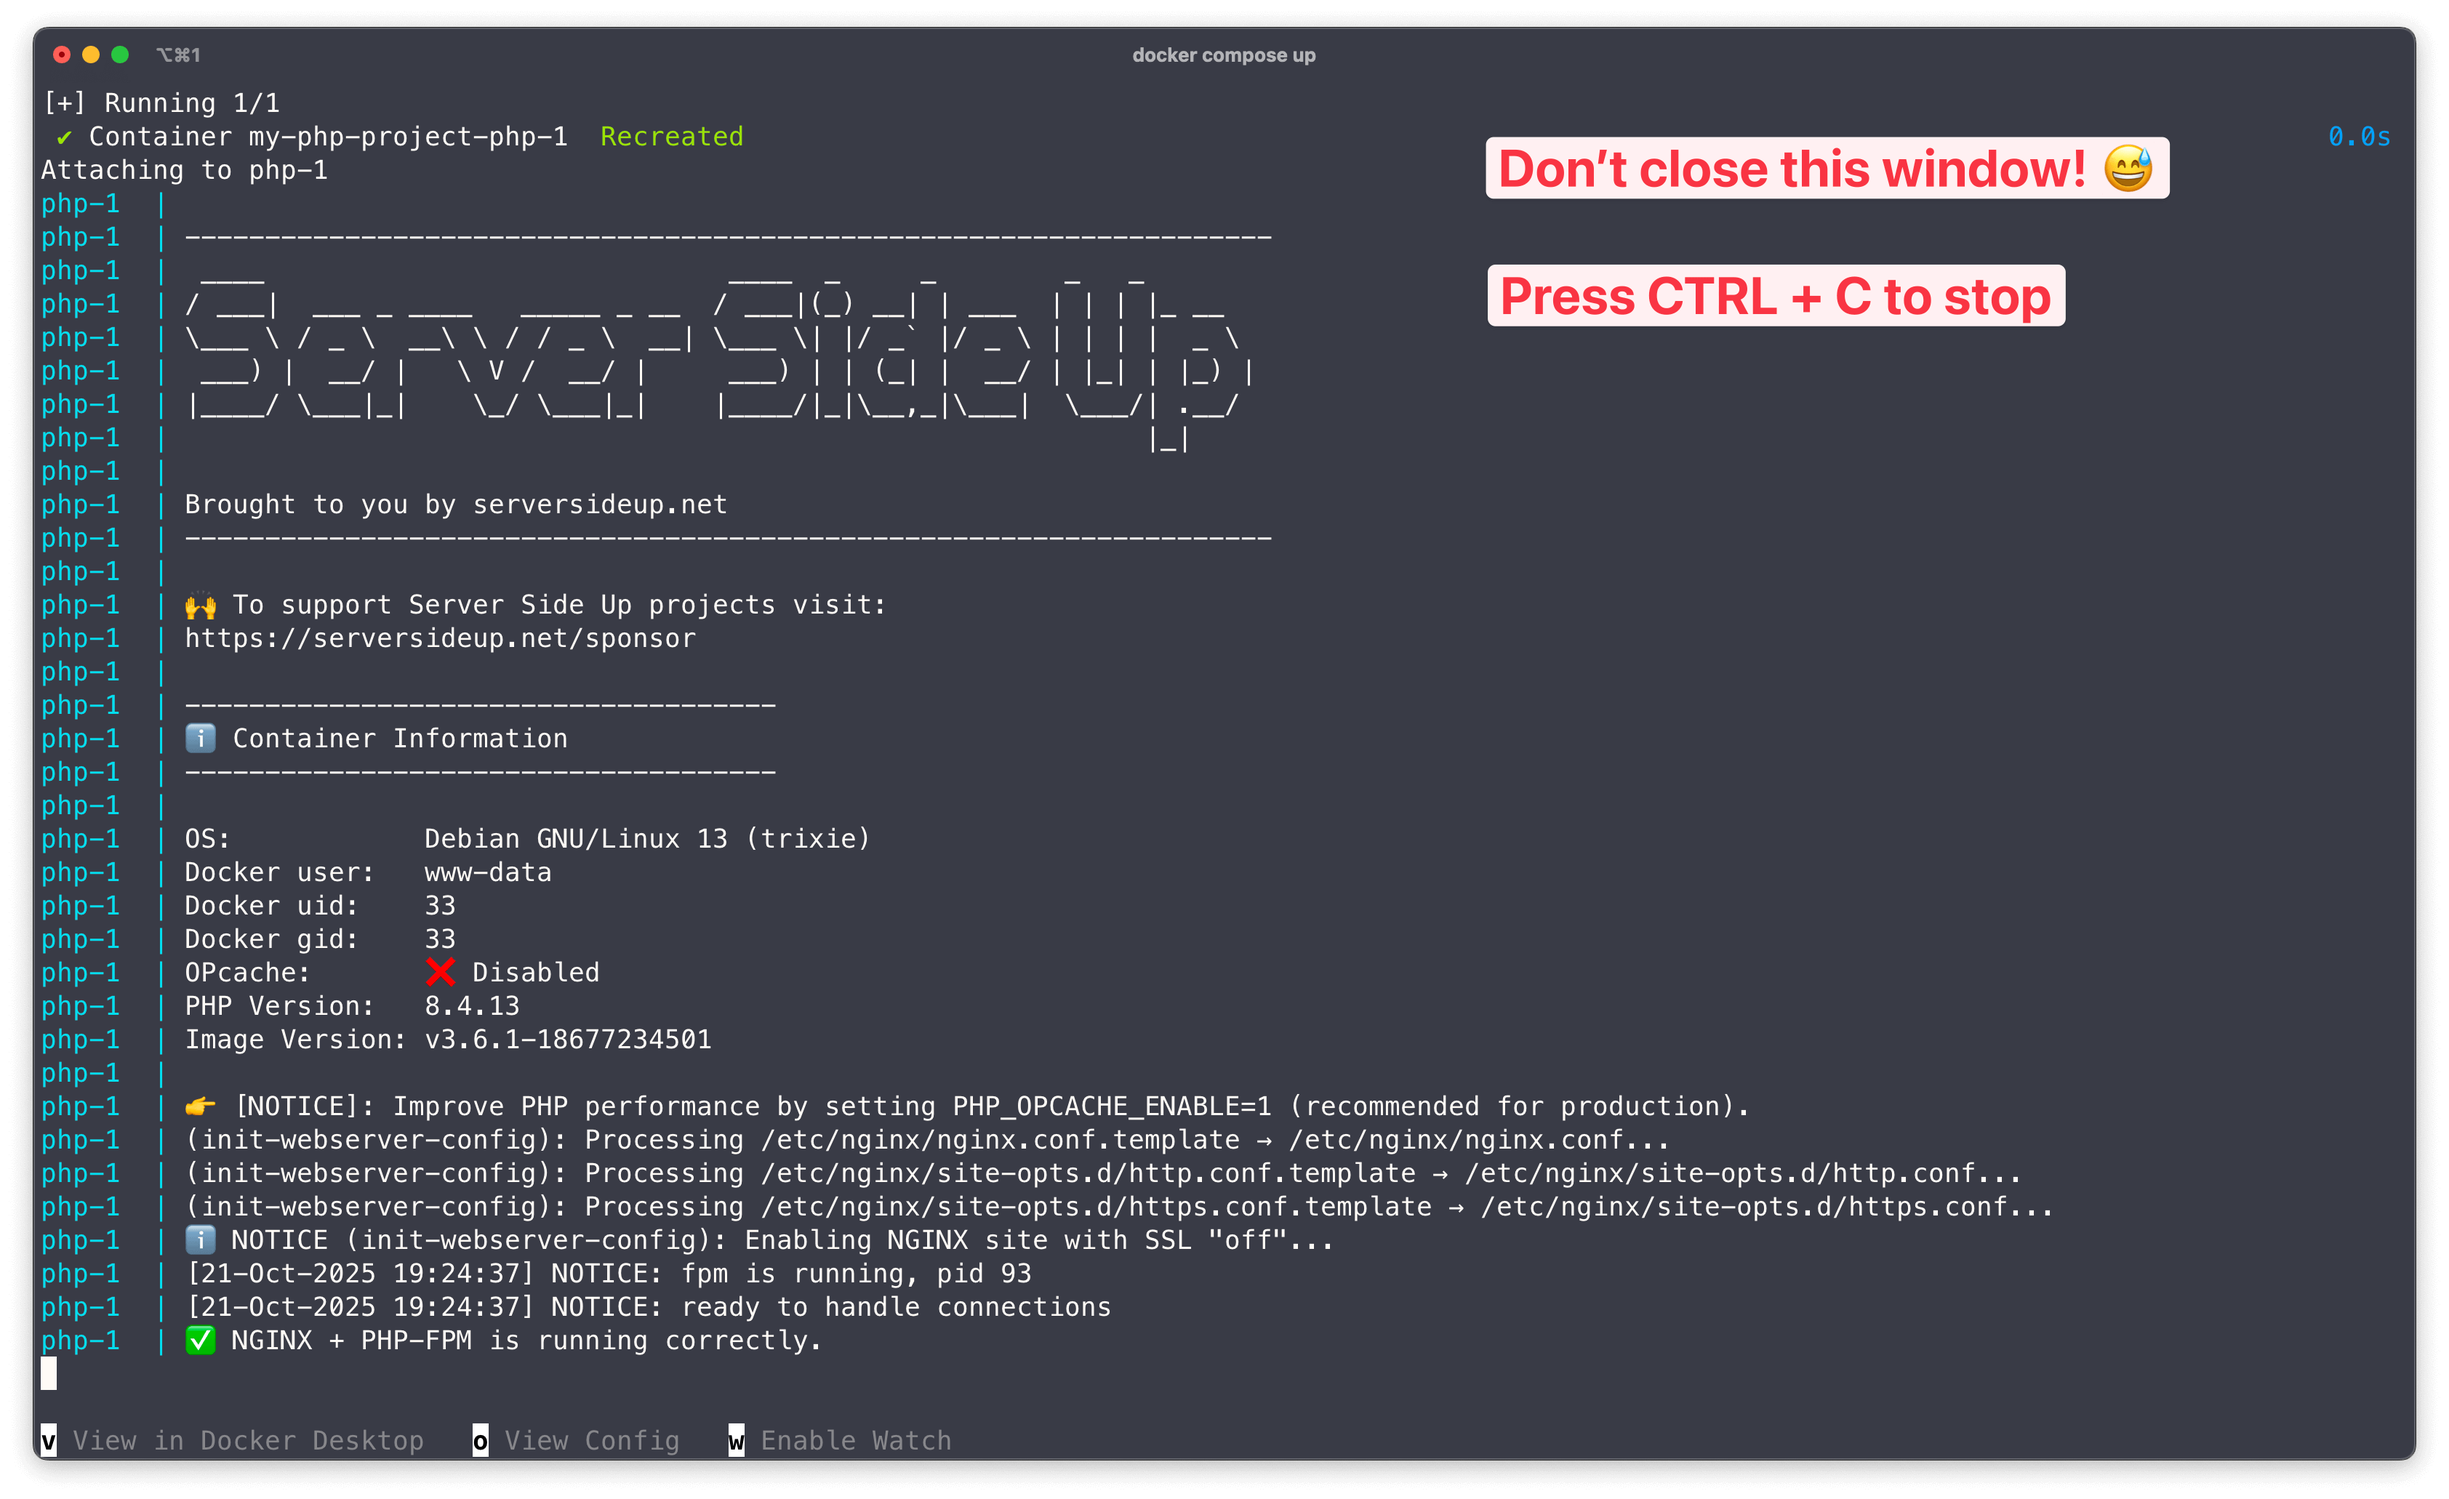
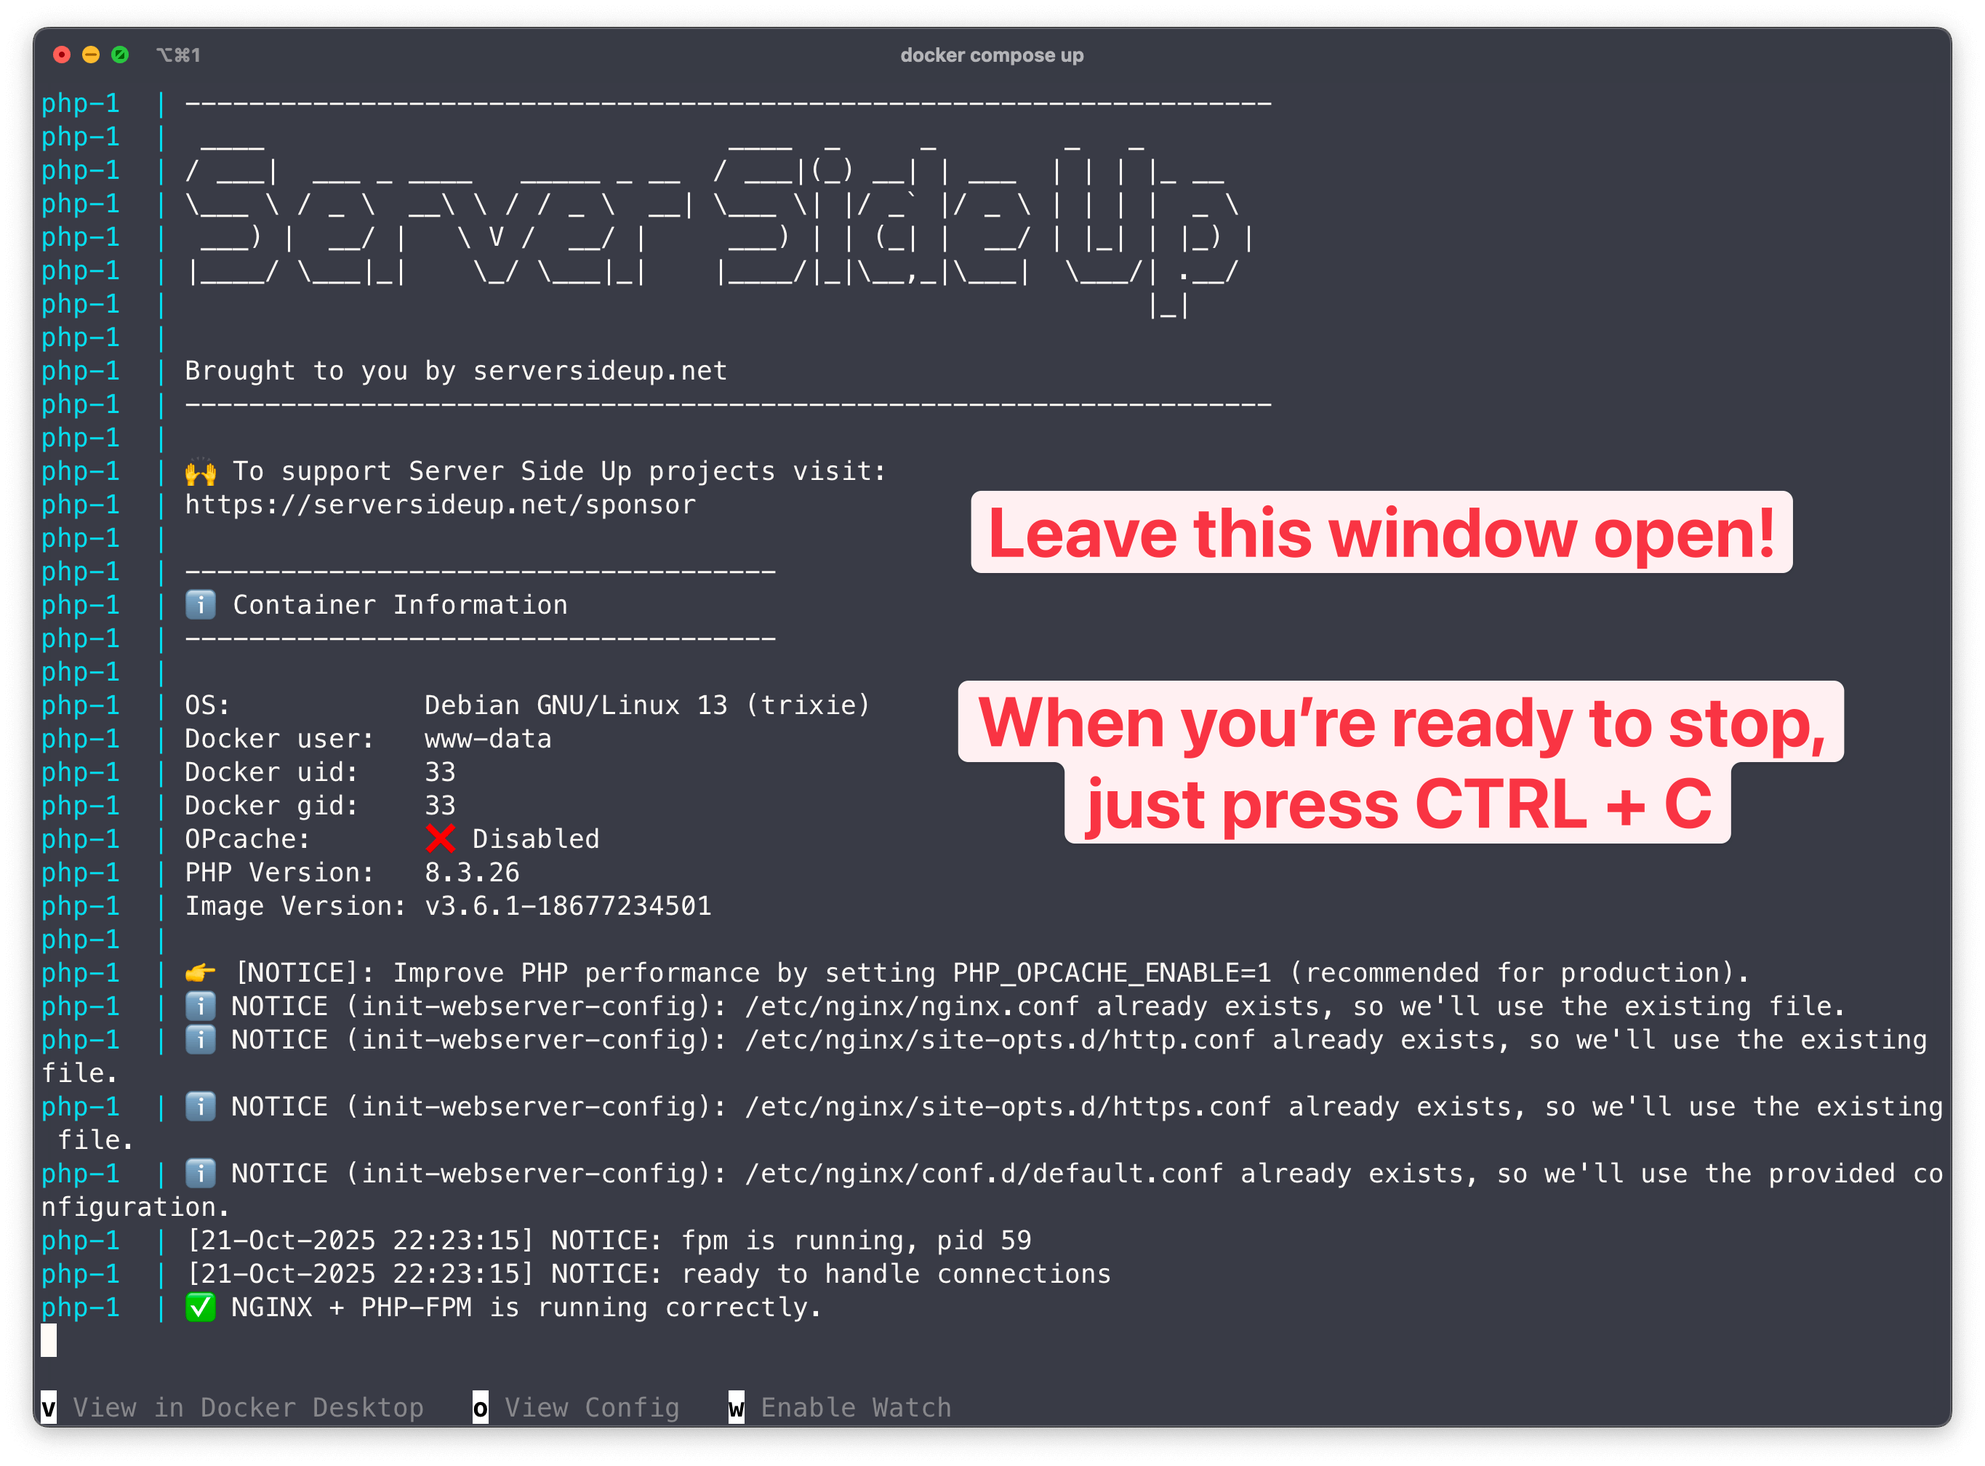
Update installation documentation for PHP Docker images: added 'Tag' definition, improved project setup instructions, and included new images showcasing PHP version changes and settings. Enhanced clarity on configuring PHP settings in Docker Compose.

diff --git a/docs/content/docs/1.getting-started/3.installation.md b/docs/content/docs/1.getting-started/3.installation.md
@@ -29,6 +29,7 @@ There are some important terms to understand when working with containers:
 |------|------------|
 | Container | A running instance of an image. |
 | Image | A template for a container to start with (like serversideup/php). |
+| Tag | A specific version of an image. |
 | Registry | A repository of images. This is where users can pull images from to start a container. This can be places like [Docker Hub](https://hub.docker.com/r/serversideup/php) or [GitHub Packages](https://github.com/serversideup/docker-php/pkgs/container/php). |
 
 If you'd like to learn more about containers, you can learn more following the guide below.
@@ -46,20 +47,17 @@ docker --version
 docker compose version
 ```
 
-If you see the version numbers, you're ready to go!
+If you see version numbers after running the commands, you're ready to go!
 
 ### Create a new sample project
-Let's create a new sample project to test our Docker setup.
+Let's create a new sample project to test our Docker setup. Open up your terminal and run the following commands:
 
 ```bash
-# Create a new directory for our project
-mkdir my-php-project
+# Create a project directory with a public directory
+mkdir -p my-php-project/public
 
 # Change directory to our project
 cd my-php-project
-
-# Create a public directory for our "public facing" files
-mkdir public
 ```
 
 Once we're in our project directory, we will want to create two files:
@@ -75,13 +73,17 @@ The content of these files should look like:
 services:
   php:
     # Choose our PHP version and variation
-    image: serversideup/php:8.4-fpm-nginx
+    image: serversideup/php:8.3-fpm-nginx
     # Expose localhost:80 to NGINX's port 8080
     ports:
       - 80:8080
     # Mount current directory to /var/www/html
     volumes:
       - ./:/var/www/html
+    # PHP settings that we can override
+    environment:
+      PHP_UPLOAD_MAX_FILE_SIZE: "250M"
+      PHP_OPCACHE_ENABLE: "0"
 ```
 
 ```php [public/index.php]
@@ -110,9 +112,18 @@ You'll see the logs appear in your terminal. **Keep your terminal open** as we'l
 ![Running PHP Container](images/docs/running-php-container.png)
 
 ### Viewing your PHP app
-To view your PHP app, open your browser and navigate to `http://localhost`. You should see the PHP info page:
+To view your PHP app, open your browser and navigate to `http://localhost`. You should see the PHP info page with `8.3` running `fpm-nginx`:
 
 ![PHP Info Page](images/docs/php-info.png)
+
+You can see the PHP version is in the upper left corner of the page. But what's also cool is you can see the settings we configured in the `compose.yml` file are being applied.
+
+Look for these values in the PHP info page:
+
+- `upload_max_filesize` - This should show `250M`
+- `opcache.enable` - This should show `Off`
+
+To make changes to these settings, we must bring the containers down first before making the changes.
 
 ### Stopping your application
 To stop the container, press :kbd{value="ctrl"} + :kbd{value="C"} on the original terminal window or you can run the following command from your project root directory:
@@ -120,5 +131,44 @@ To stop the container, press :kbd{value="ctrl"} + :kbd{value="C"} on the origina
 docker compose down
 ```
 
-## Congratulations! You ran your first containerized PHP app!
-Now that you've successfully run your first PHP app with Docker, let's learn how to select the right image for your use case. The true power of containers is when you can change your PHP version and/or variation by changing a single line in your configuration file.
+### Making changes to your PHP app
+Let's do something a bit more interesting:
+1. Let's upgrade to PHP 8.4
+1. Let's use FrankenPHP instead of FPM-NGINX
+2. Turn on OPCache
+3. Increase the upload limit to 500M
+
+```yml [compose.yml]{3-4,10-13}
+services:
+  php:
+    # Change image to 8.4 with FrankenPHP
+    image: serversideup/php:8.4-frankenphp
+    ports:
+      - 80:8080
+    volumes:
+      - ./:/var/www/html
+    environment:
+      # Increase the upload limit to 500M
+      PHP_UPLOAD_MAX_FILE_SIZE: "500M"
+      # Turn OPCache on
+      PHP_OPCACHE_ENABLE: "1"
+```
+
+Now let's bring the containers back up again:
+
+```bash
+docker compose up
+```
+
+Check `http://localhost` again and you should see the changes we made:
+
+![PHP Info Page with Changes to PHP version and variation](images/docs/php-info-changes-version-and-server.png)
+
+Holy smokes! We've upgraded to PHP 8.4 and you're using FrankenPHP! You can also find the changes to the PHP settings have been applied.
+
+![PHP Info Page with Changes to server options](images/docs/php-info-with-changes-options.png)
+
+## You've got this 💪
+You've successfully created your first PHP app with Docker. Better yet, you've seen the power of serversideup/php where it's easy to change your PHP version and/or variation by changing a single line in your configuration file.
+
+Keep reading to understand how to choose the right image for your project.
